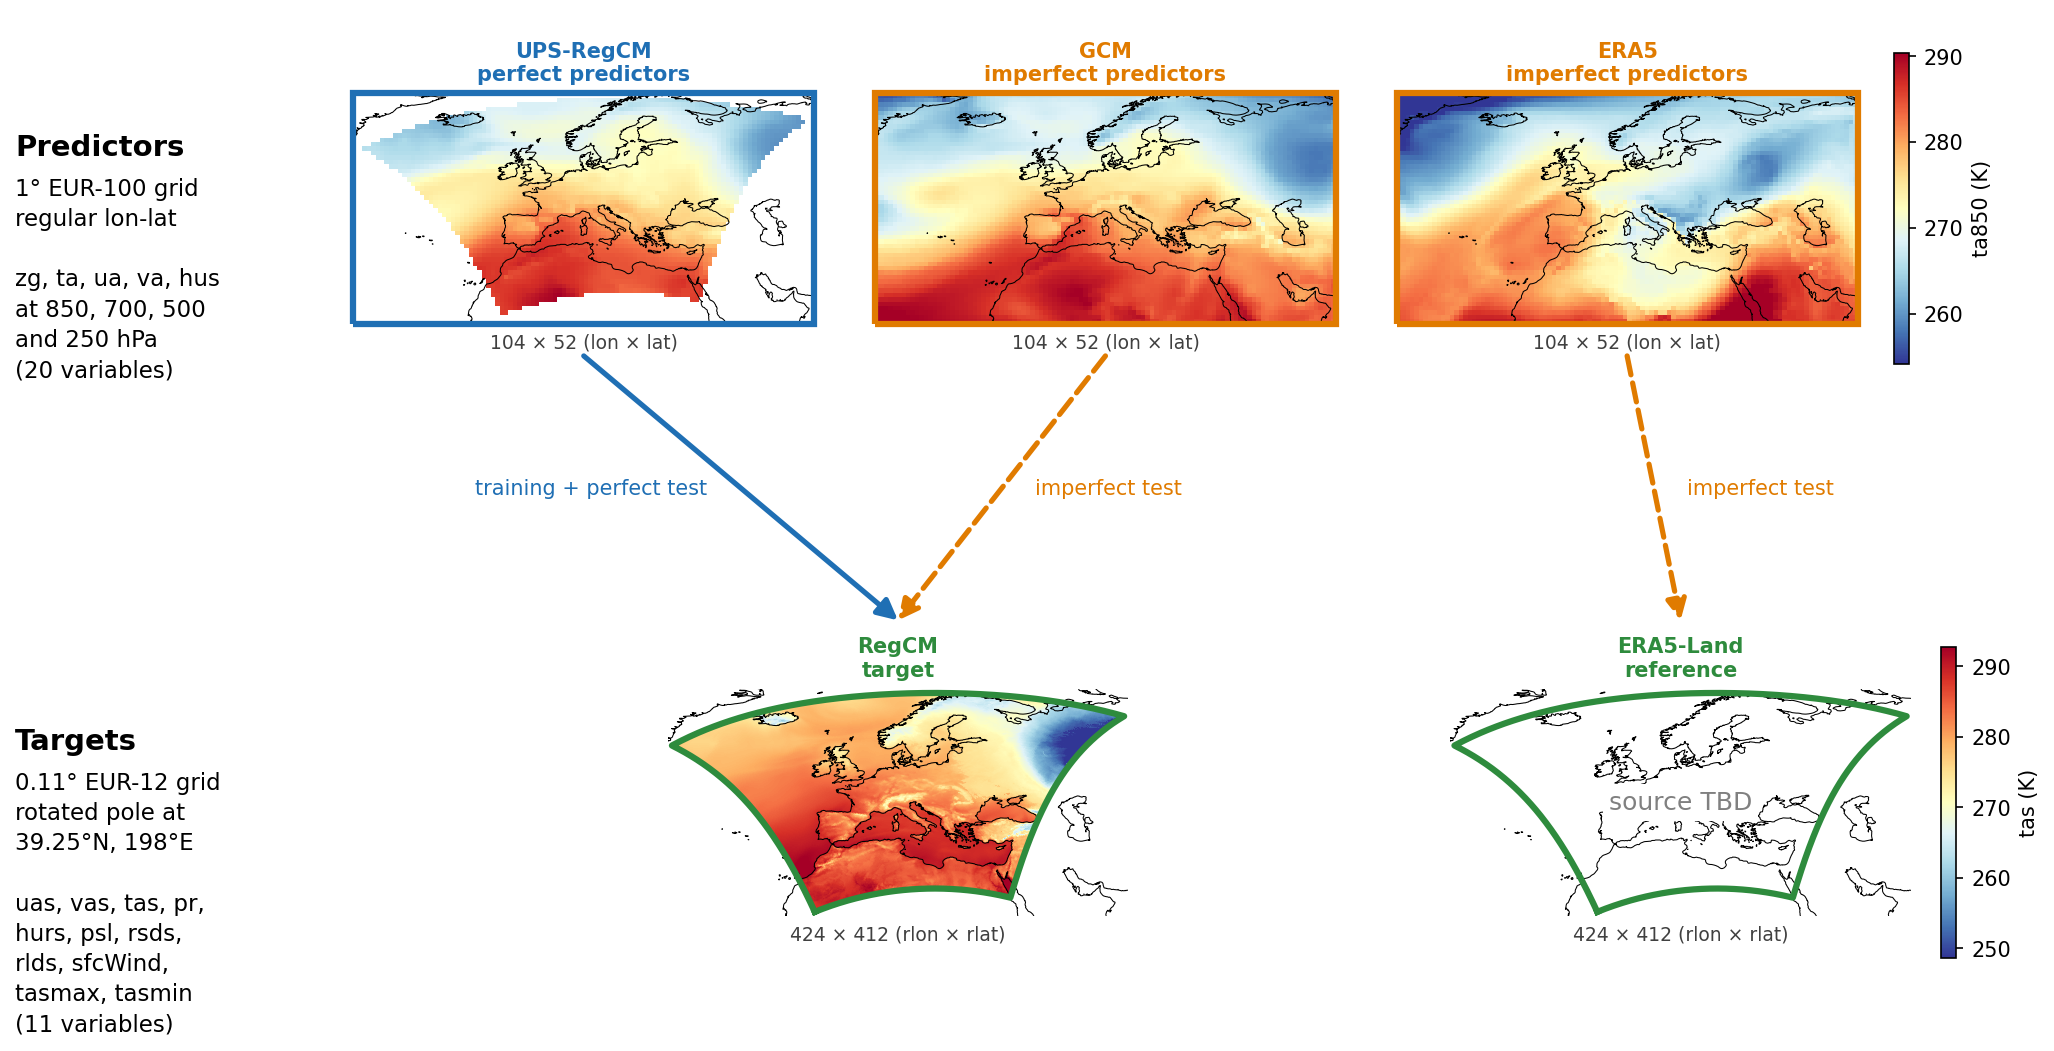
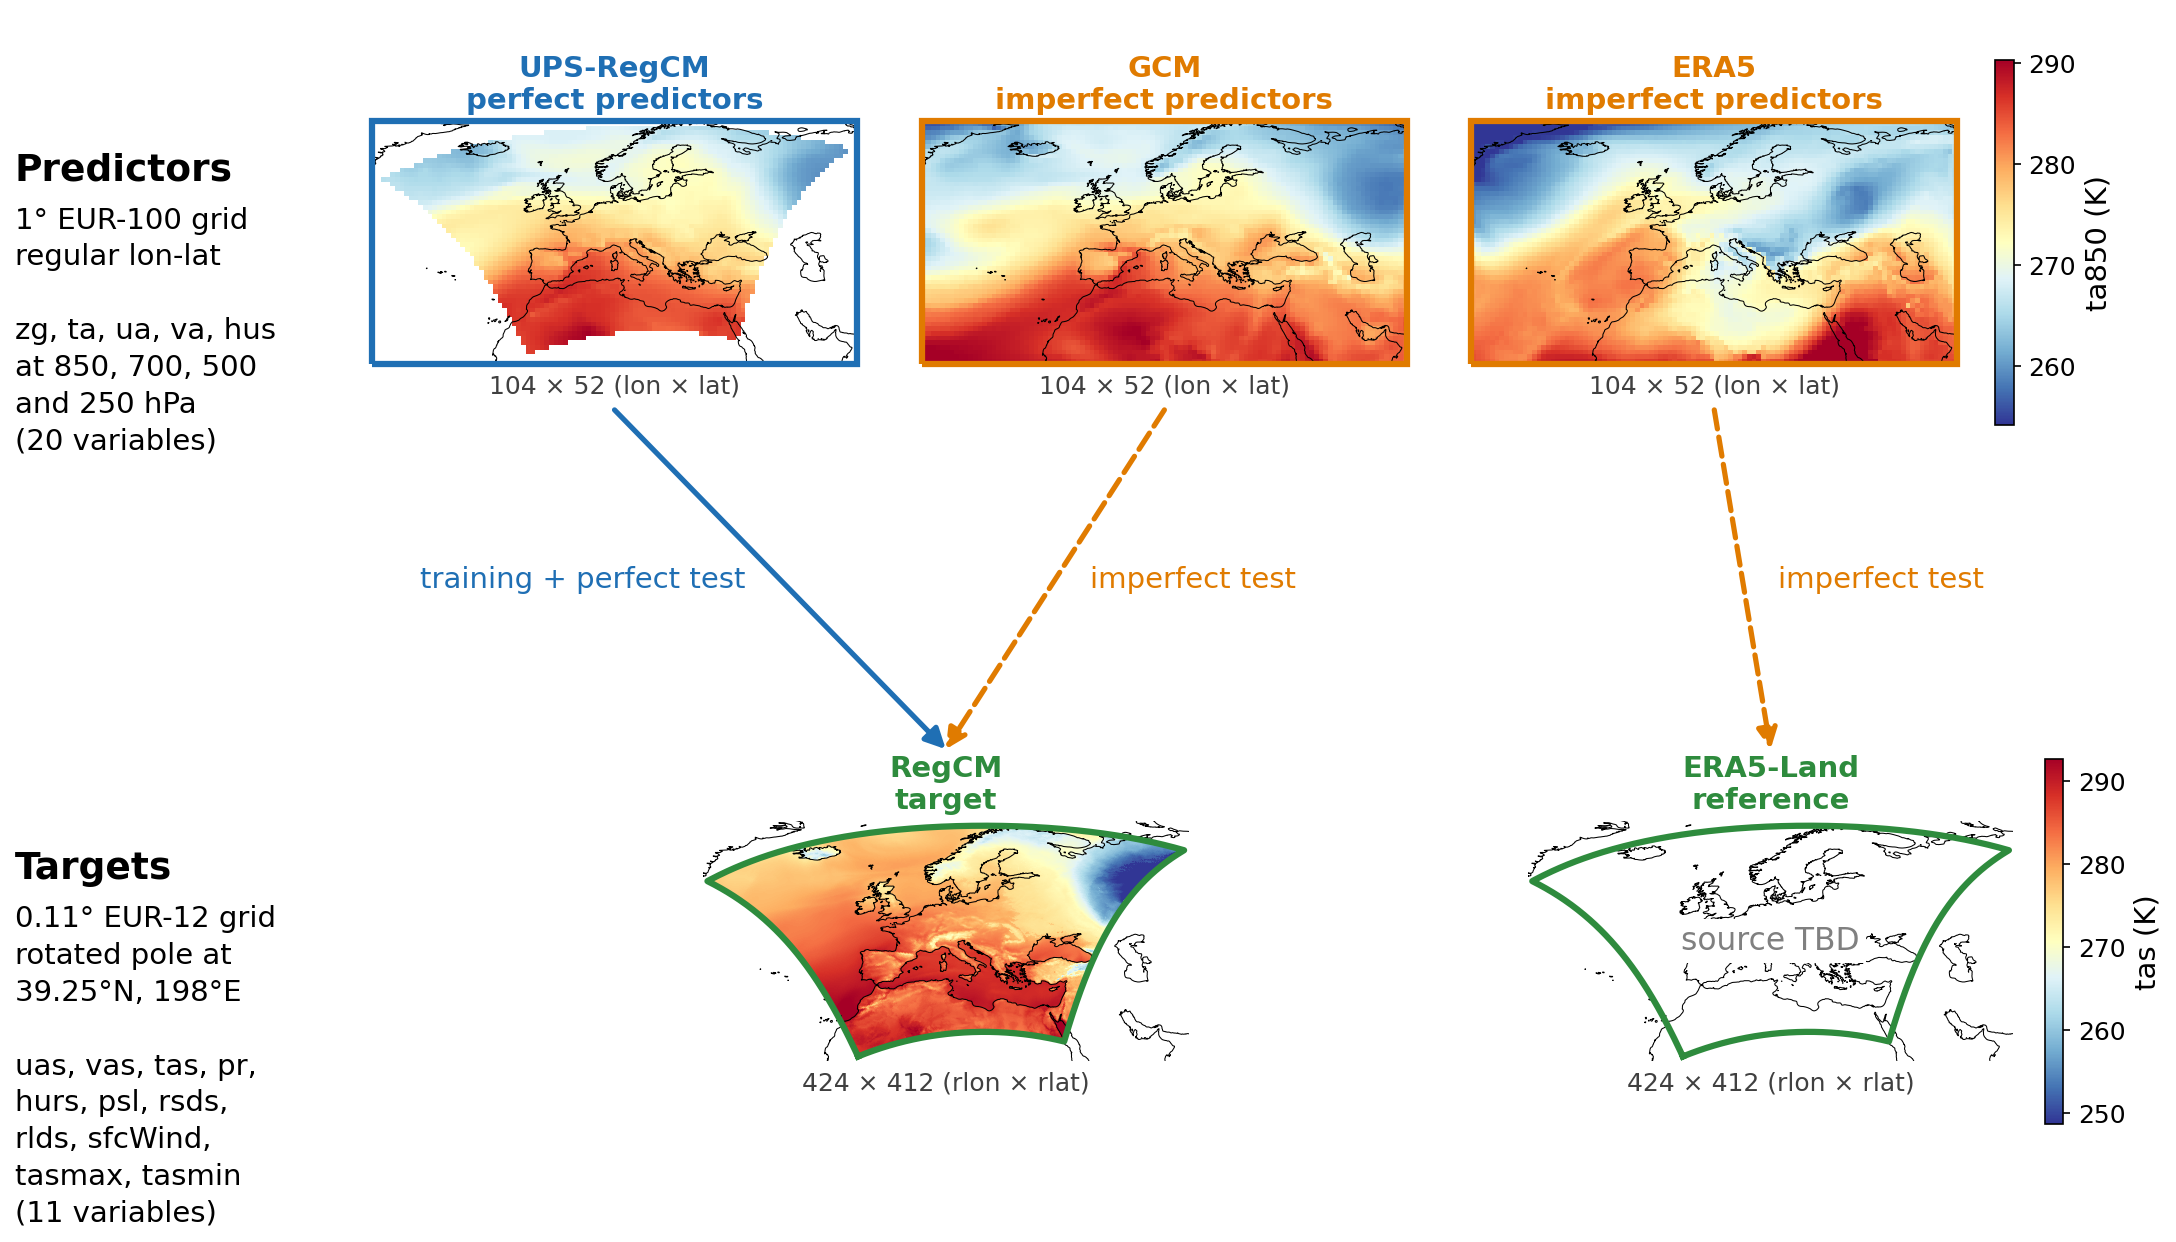
docs updated

diff --git a/docs/introduction/experiments.md b/docs/introduction/experiments.md
@@ -47,7 +47,9 @@ A driver not seen in training: the ERA5 reanalysis.
 
 Two periods not seen in training (1981-2000 and 2041-2060) and driving GCMs not seen in training.
 
-- **Blocks:** 1981-2000 and 2041-2060 of EC-Earth3-Veg, MPI-ESM1-2-HR and NorESM2-MM, with perfect and imperfect predictors.
+- **3a. Perfect:** blocks 1981-2000 and 2041-2060 of EC-Earth3-Veg, MPI-ESM1-2-HR and NorESM2-MM, perfect predictors.
+- **3b. Imperfect:** blocks 1981-2000 and 2041-2060 of MPI-ESM1-2-HR and NorESM2-MM, imperfect predictors. EC-Earth3-Veg
+  will be added with its historical imperfect predictors.
 
 #### Test blocks {#test-blocks}
 
@@ -55,12 +57,12 @@ Each cell gives the prediction experiments that use the prediction of that block
 
 | Block | Perfect | Imperfect |
 |---|---|---|
-| EC-Earth3-Veg/1981-2000 | [3](#exp-3) | *pending* |
-| MPI-ESM1-2-HR/1981-2000 | [3](#exp-3) | [3](#exp-3) |
-| NorESM2-MM/1981-2000 | [3](#exp-3) | [3](#exp-3) |
-| EC-Earth3-Veg/2041-2060 | <span class="skill">[1](#exp-1)</span>, [3](#exp-3) | [3](#exp-3) |
-| MPI-ESM1-2-HR/2041-2060 | [3](#exp-3) | [3](#exp-3) |
-| NorESM2-MM/2041-2060 | [3](#exp-3) | [3](#exp-3) |
+| EC-Earth3-Veg/1981-2000 | [3a](#exp-3) | *pending* |
+| MPI-ESM1-2-HR/1981-2000 | [3a](#exp-3) | [3b](#exp-3) |
+| NorESM2-MM/1981-2000 | [3a](#exp-3) | [3b](#exp-3) |
+| EC-Earth3-Veg/2041-2060 | <span class="skill">[1](#exp-1)</span>, [3a](#exp-3) | [3b](#exp-3) |
+| MPI-ESM1-2-HR/2041-2060 | [3a](#exp-3) | [3b](#exp-3) |
+| NorESM2-MM/2041-2060 | [3a](#exp-3) | [3b](#exp-3) |
 | ERA5/1981-2000 | <span class="skill">[2a](#exp-2)</span> | <span class="skill">[2b](#exp-2)</span> |
 
 That is 13 predictions per model and training experiment (14 once the EC-Earth3-Veg historical imperfect predictors are

diff --git a/docs/introduction/evaluation.md b/docs/introduction/evaluation.md
@@ -12,8 +12,8 @@ Each [prediction experiment](experiments.md#prediction-experiments) is evaluated
 | 1. Period transferability | `EC-Earth3-Veg_perfect_2041-2060` | fast, slow, prob, multivar | RegCM5-0 driven by EC-Earth3-Veg |
 | 2a. Driver transferability, perfect | `ERA5_perfect_1981-2000` | fast, slow, prob, multivar | RegCM5-0 driven by ERA5 |
 | 2b. Driver transferability, imperfect | `ERA5_imperfect_1981-2000` | fast, slow, prob, multivar | ERA5-Land (*source TBD*) |
-| 3. Period and GCM transferability | `<GCM>_perfect_1981-2000_2041-2060` | signal | climate-change signal of RegCM5-0 driven by the same GCM |
-| | `<GCM>_imperfect_1981-2000_2041-2060` | signal | climate-change signal of RegCM5-0 driven by the same GCM |
+| 3a. Period and GCM transferability, perfect | `<GCM>_perfect_1981-2000_2041-2060` | signal | climate-change signal of RegCM5-0 driven by the same GCM |
+| 3b. Period and GCM transferability, imperfect | `<GCM>_imperfect_1981-2000_2041-2060` | signal | climate-change signal of RegCM5-0 driven by the same GCM |
 
 - **fast**: RMSE, spectral error and biases of the mean, extremes and autocorrelation.
 - **slow**: distribution scores and additional variable-specific biases.
